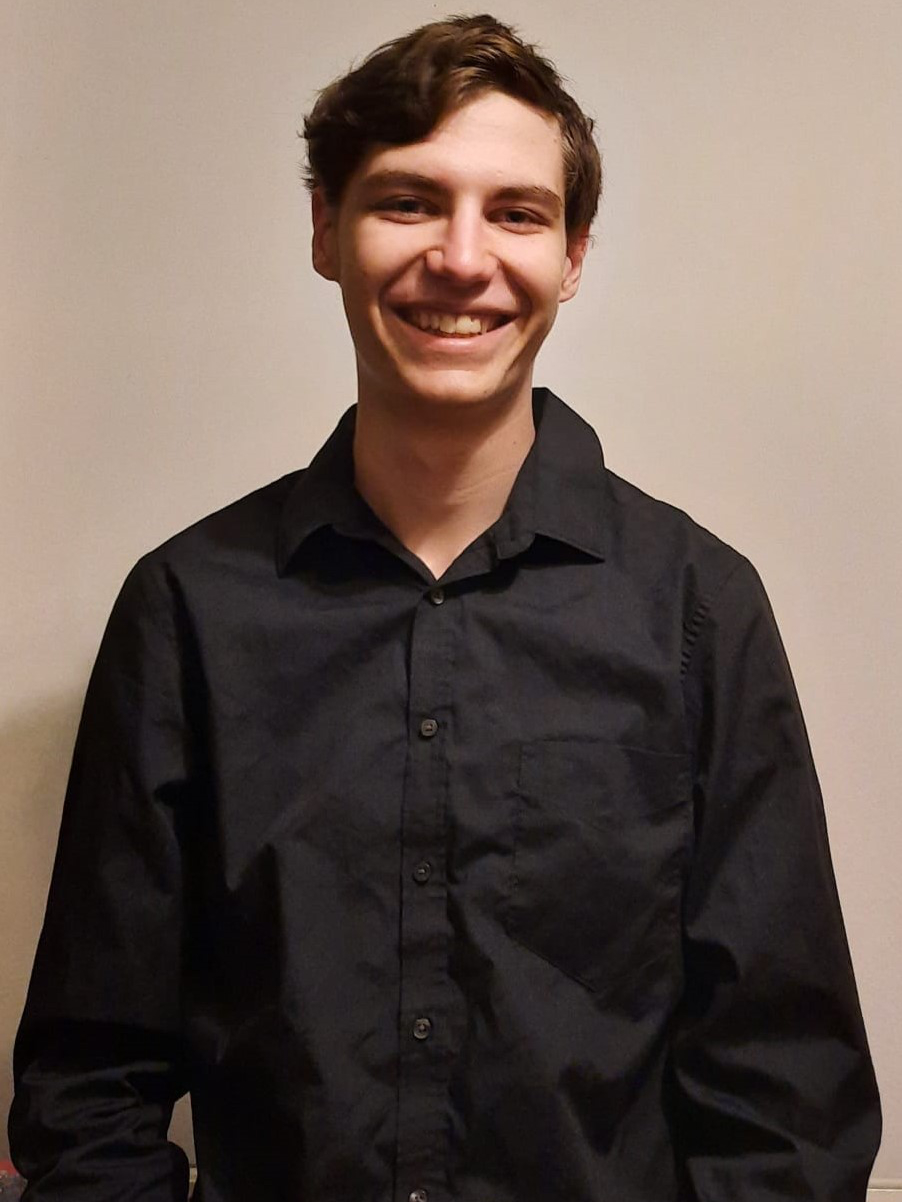
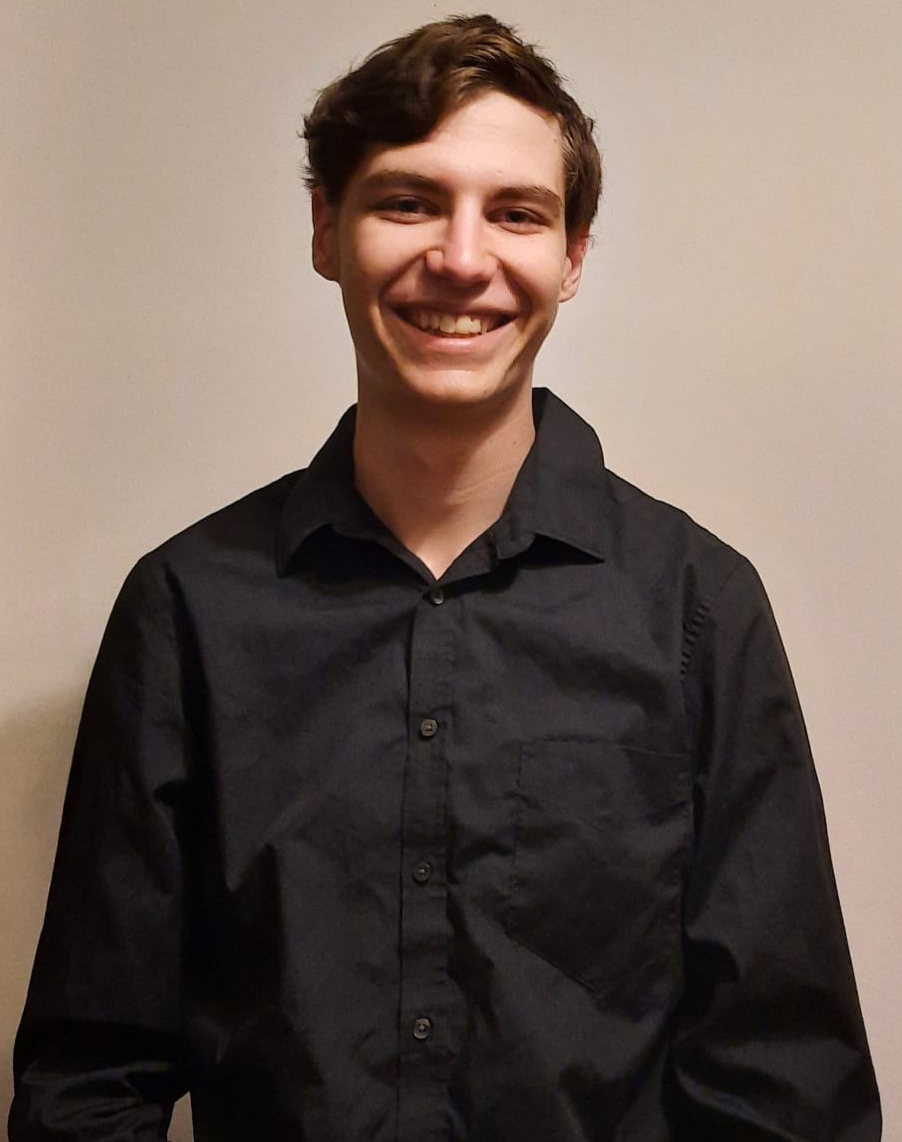
kleine Änderungen

diff --git a/DA-Website/index.html b/DA-Website/index.html
@@ -205,7 +205,7 @@
             <div class="our-team">
               <div class="team_img">
                 <img
-                  src="./assets/img/portfolio/Raphi.jpg"
+                  src="./assets/img/portfolio/Raphael.jpeg"
                   alt="team-image"
                 />
                 <!-- <ul class="social">
@@ -273,7 +273,7 @@
             <div class="our-team">
               <div class="team_img">
                 <img
-                  src="./assets/img/portfolio/Leo.jpg"
+                  src="./assets/img/portfolio/LeoG.jpeg"
                   alt="team-image"
                 />
                 <!-- <ul class="social">

diff --git a/web_client/src/views/Dashboard.vue b/web_client/src/views/Dashboard.vue
@@ -57,7 +57,7 @@
     </div>
     <div>
       <!-- <v-btn :to="`/ranking/${comp_id}`">Ranking</v-btn> -->
-      <v-btn @click="sellbuy">Kaufen</v-btn>
+      <v-btn @click="sellbuy" class="mx-auto" color="sucess">Kaufen</v-btn>
     </div>
     <v-dialog v-model="dialog" max-width="500px">
       <v-card>
